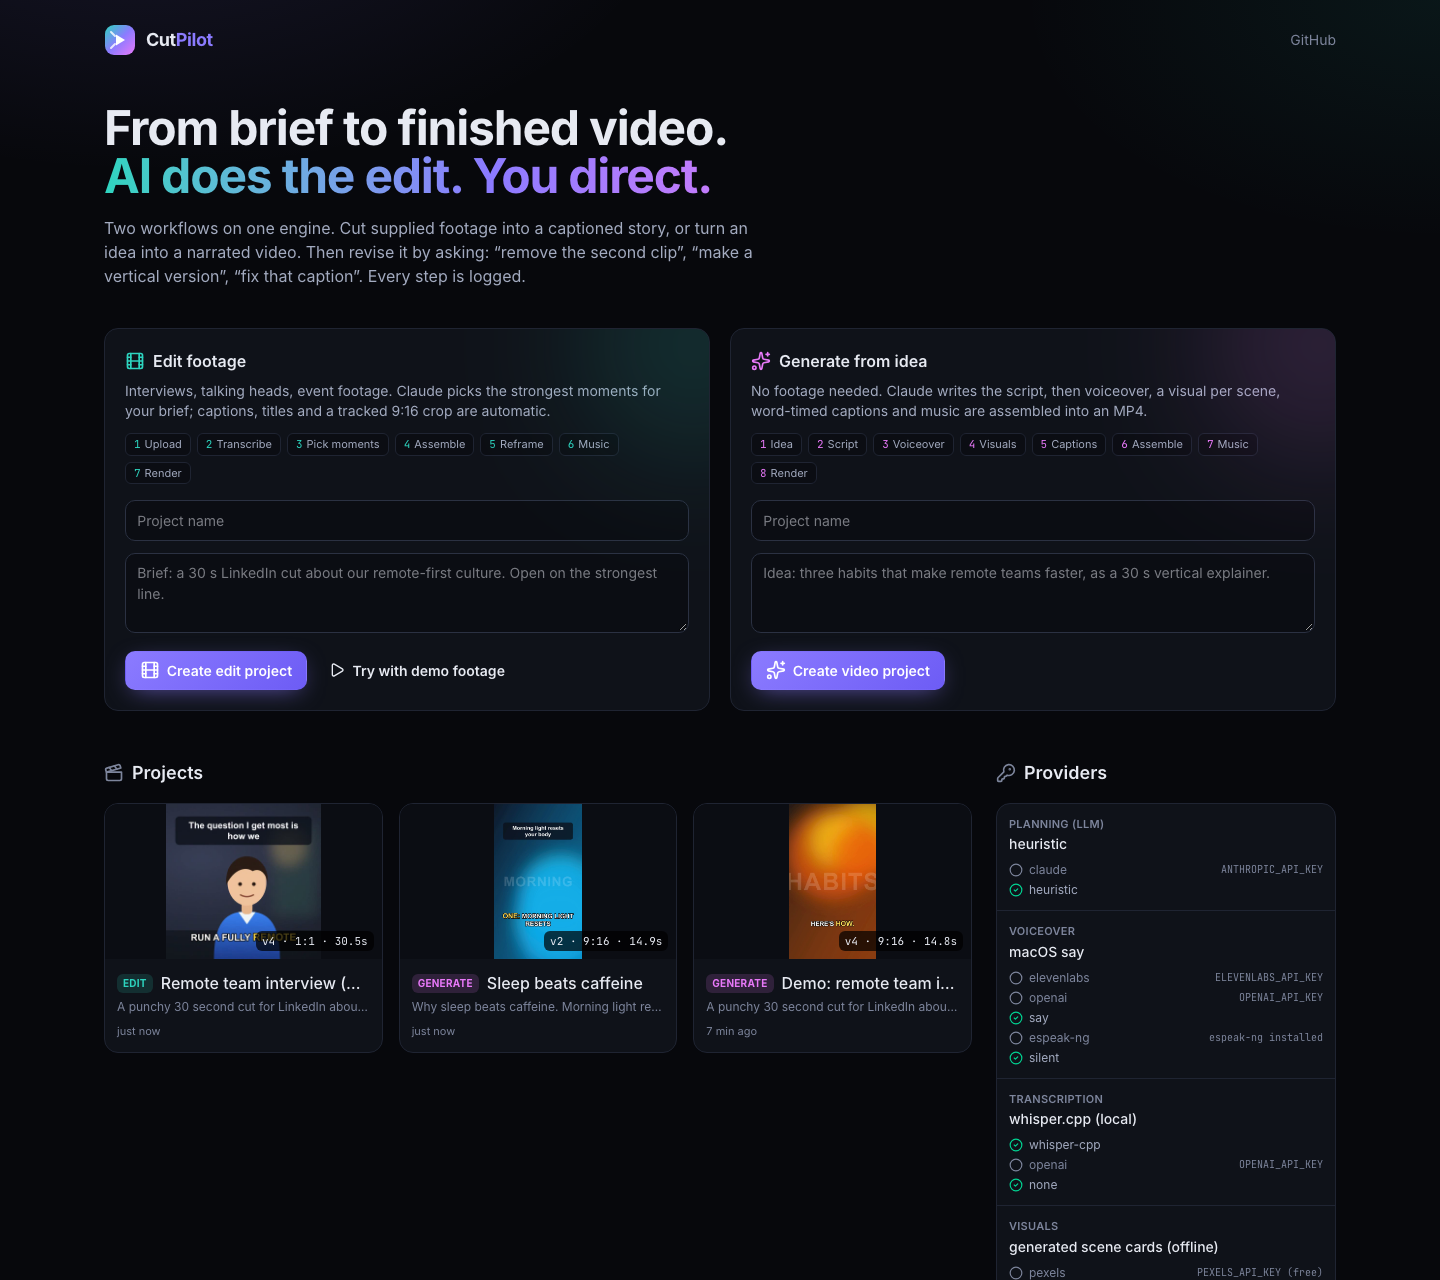
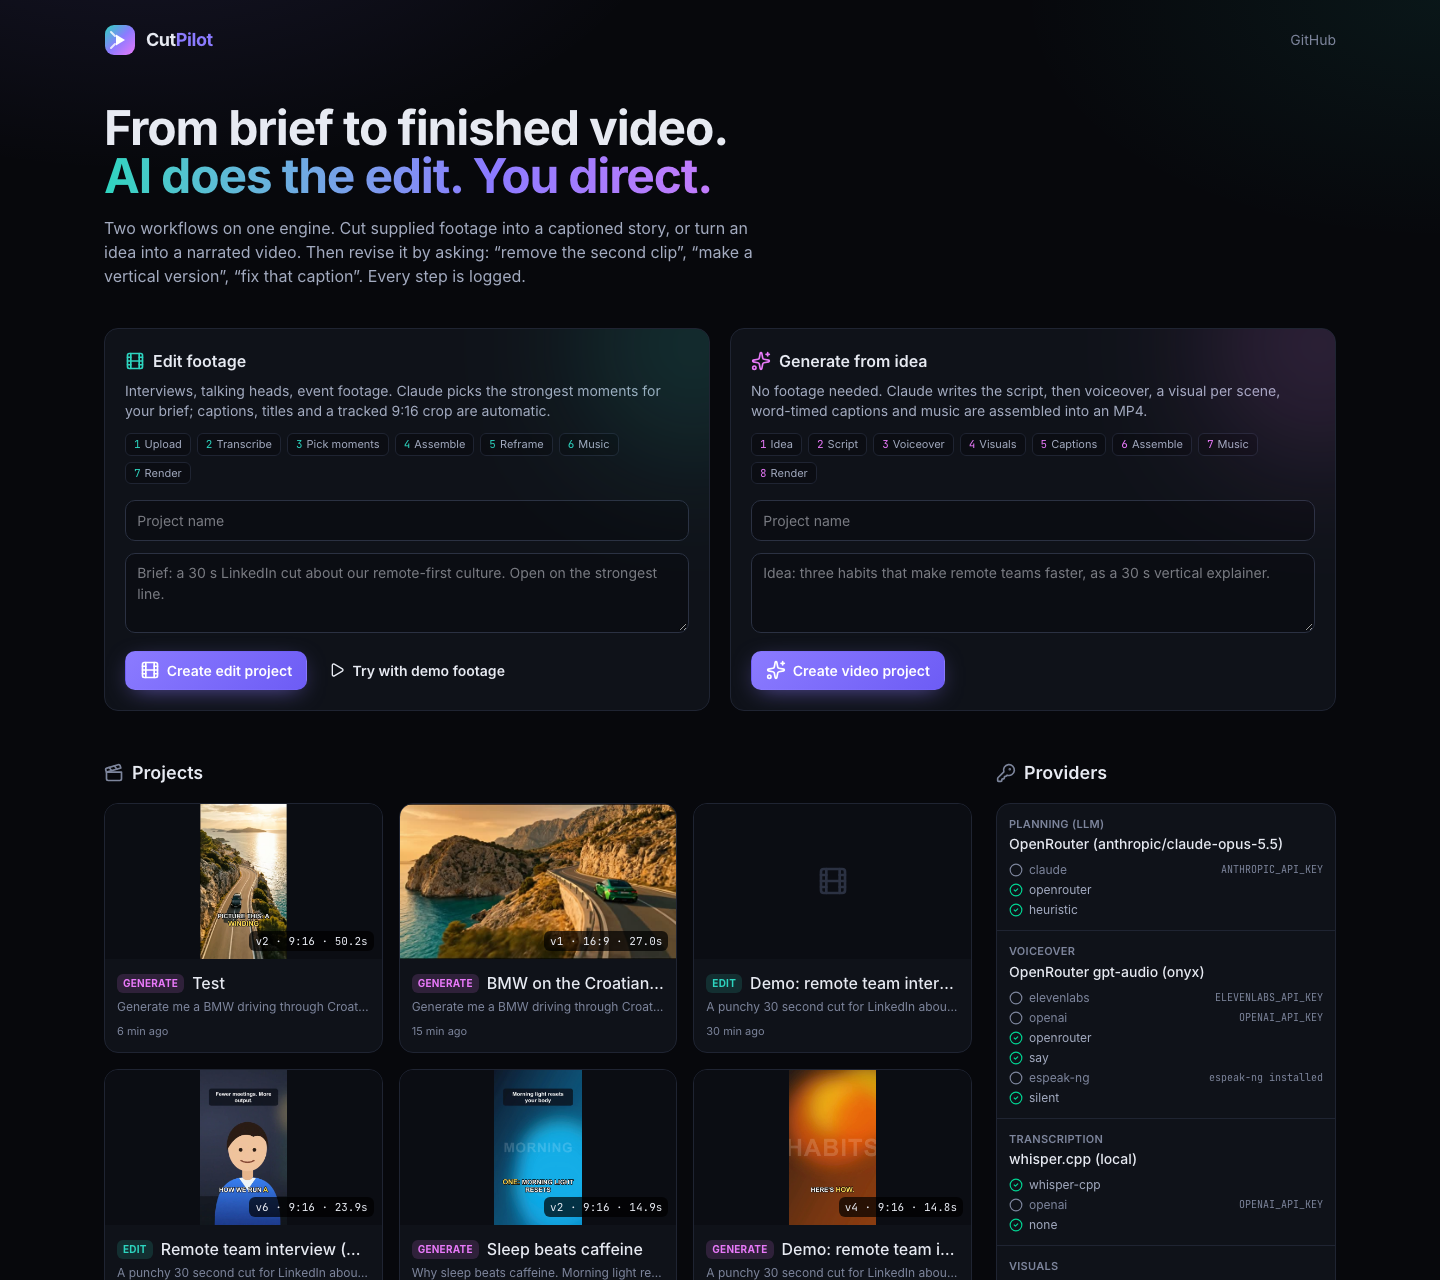
README showcase: cinematic AI film, narrated vertical cut, live run
Add the generated BMW-on-the-Croatian-coast film (GIF, six-shot frame
grid), the narrated 9:16 version, a live-run screenshot and screenshots of
the shot list, AI shots, editor and cost log. Video tiles in the Visuals
step now show a poster frame. Add scripts/make-showcase.sh.

diff --git a/apps/web/components/Inspector.tsx b/apps/web/components/Inspector.tsx
@@ -432,7 +432,17 @@ function Output({ type, output, state }: { type: string; output: any; state: Pro
         <div className="grid grid-cols-2 gap-2">
           {output.scenes.map((s: any, i: number) =>
             s.kind === "video" ? (
-              <video key={i} src={s.pathUrl} muted loop autoPlay playsInline className="aspect-video w-full rounded-lg bg-black object-cover" />
+              <video
+                key={i}
+                src={s.pathUrl}
+                poster={thumbUrl(s.path, Math.min(1.5, (s.duration ?? 2) / 2))}
+                muted
+                loop
+                autoPlay
+                playsInline
+                title={s.credit}
+                className="aspect-video w-full rounded-lg bg-black object-cover"
+              />
             ) : (
               // eslint-disable-next-line @next/next/no-img-element
               <img key={i} src={s.pathUrl} alt={`Scene ${i + 1}`} className="aspect-video w-full rounded-lg bg-black object-cover" />

diff --git a/README.md b/README.md
@@ -2,9 +2,9 @@
 
 # CutPilot
 
-**An AI video workflow that produces real MP4s.** Cut supplied footage into a captioned story from a brief, or turn an idea into a narrated video. Then revise it by asking: *"remove the second clip"*, *"make a vertical version"*, *"fix that caption"*.
+**An AI video workflow that produces real MP4s.** Turn one sentence into a photoreal, cinematic film, or cut supplied footage into a captioned story from a brief. Then revise it by asking: *"remove the second clip"*, *"make a vertical version"*, *"fix that caption"*.
 
-Claude plans the edit. FFmpeg renders it. Every step is logged.
+Claude directs. Veo films. Lyria scores. FFmpeg renders. Every step and every cent is logged.
 
 [![CI](https://github.com/sibrahimpa1/cutpilot/actions/workflows/ci.yml/badge.svg)](https://github.com/sibrahimpa1/cutpilot/actions/workflows/ci.yml)
 ![TypeScript](https://img.shields.io/badge/TypeScript-5-3178c6)
@@ -12,9 +12,9 @@ Claude plans the edit. FFmpeg renders it. Every step is logged.
 ![FFmpeg](https://img.shields.io/badge/FFmpeg-render-007808)
 ![License: MIT](https://img.shields.io/badge/license-MIT-green)
 
-<img src="docs/demo.gif" alt="Videos rendered by CutPilot: a 9:16 edit of an interview with subject tracking and animated captions, and a narrated video generated from an idea" width="720">
+<img src="docs/showcase/cinematic.gif" alt="A green sports coupe driving the Croatian coast road at golden hour, past Dubrovnik's walls, generated by CutPilot from one sentence" width="760">
 
-<sub>Both clips above were rendered by CutPilot with no API keys: local Whisper, macOS voice, generated art and music.</sub>
+<sub>Generated end to end from one prompt: <i>"Generate me a BMW driving through Croatia near the sea view, make it look cinematic and real, powerful and magical. But completely realistic."</i><br>6 AI video shots with native sound, an AI score and crossfades. 27 s, 1080p, $3.85 of API calls, about 4 minutes.</sub>
 
 </div>
 
@@ -28,10 +28,8 @@ Two workflows run on one engine. Switch between them at any time inside the same
 | --- | --- | --- |
 | Input | Interviews, talking heads, event footage, and a brief | One paragraph of idea, a length and a format |
 | AI work | Transcribes, **picks the strongest moments for the brief**, writes the hook | **Writes the script**: narration, visuals and on-screen text per scene |
-| Media | Subject-tracked reframing to 9:16 / 1:1, title card, animated captions, music bed | Voiceover, one visual per scene (stock, generated or offline art), word-timed captions, music |
+| Media | Subject-tracked reframing to 9:16 / 1:1, title card, animated captions, music | **Photoreal AI video per shot with native sound** (same subject in every shot), or stock / AI stills / offline art; optional natural voice-over, word-timed captions, AI-composed music, crossfades |
 | Output | H.264 MP4, any of 16:9, 9:16, 1:1 | H.264 MP4, any of 16:9, 9:16, 1:1 |
-
-**Example (Generate, with an OpenRouter key):** *"Generate me a BMW driving through Croatia near the sea view, make it look cinematic and real, powerful and magical."* Claude decides it needs no narrator, writes a six-shot list with one precise subject (make, model, colour) and a shared look, a hero frame is generated, every shot's first frame is generated from it (same car every time), Veo animates each shot with its own engine and wave sound, Lyria scores it, and the shots are joined with crossfades.
 
 Then, for either mode:
 
@@ -41,13 +39,48 @@ Then, for either mode:
 - **Production log.** Every tool, AI decision and manual action is recorded with timings, and exports as Markdown delivery notes.
 - **MCP server.** Claude Desktop can run the whole workflow through conversation: import footage, run, revise, read the log.
 
-## Screenshots
+## Showcase
 
-| Workflow canvas (Edit footage) | Editor with chat revisions |
+### One sentence → a cinematic film
+
+Claude read the prompt and decided it needs **no narrator**. It wrote a six-shot list with one exact subject (a BMW M4 Competition in Isle of Man Green), a shared look (anamorphic, golden hour, teal and amber grade) and a music brief. CutPilot generated a hero frame, then every shot's first frame *from* that hero frame so the car is the same in all six shots, animated each one on Veo 3.1 Fast with its own engine, wind and wave sound, scored it with Lyria and joined the shots with crossfades.
+
+![Six shots from the generated film: coastal drone shot, low tracking shot, front three-quarter on a hairpin, Dubrovnik's old town walls, chase into the sunset, closing drone pull-back](docs/showcase/cinematic-shots.jpg)
+
+### The same idea, narrated, for Reels and TikTok
+
+Set **Narration** to *Voice-over* (or let the AI decide on a story-led prompt) and the same pipeline writes a script, records a natural voice-over (gpt-audio), times every caption word against the recorded voice and cuts to the line.
+
+<table>
+  <tr>
+    <td width="300"><img src="docs/showcase/narrated-9x16.gif" alt="Vertical narrated version with word-by-word captions" width="280"></td>
+    <td><img src="docs/showcase/narrated-shots.jpg" alt="Six vertical frames of the narrated version with captions and titles"></td>
+  </tr>
+</table>
+
+### Watching it work
+
+![A live run: every step done with its provider shown (Claude via OpenRouter, gpt-audio voice, AI video, local whisper.cpp), the final render encoding](docs/screenshots/live-run.png)
+
+| Claude's shot list | Six AI shots, same car in every one |
+| --- | --- |
+| ![Shot list](docs/screenshots/ai-shotlist.png) | ![AI visuals](docs/screenshots/ai-visuals.png) |
+| **Editor: play, revise by chat, change format** | **Production log with the cost of every API call** |
+| ![Editor](docs/screenshots/ai-editor.png) | ![Log](docs/screenshots/ai-log.png) |
+
+<sub>BMW is a trademark of its owner. This is an example output of an AI pipeline; the project is not affiliated with or endorsed by BMW.</sub>
+
+### Works offline too
+
+With no API keys at all, the same pipeline still produces real MP4s: local Whisper, a macOS or espeak voice, generated scene art and a synthesised music bed. Below, an Edit-mode cut of a (synthetic) interview with subject-tracked 9:16 reframing and animated captions, next to an offline Generate run.
+
+<img src="docs/demo.gif" alt="Offline renders: a 9:16 interview edit with subject tracking and captions, and an offline generated video" width="560">
+
+## Screenshots: Edit footage mode
+
+| Workflow canvas: Claude picks the moments | Editor: four versions, chat revisions |
 | --- | --- |
 | ![Edit workflow](docs/screenshots/workflow-edit.png) | ![Editor](docs/screenshots/editor.png) |
-| **Workflow canvas (Generate from idea)** | **Production log** |
-| ![Generate workflow](docs/screenshots/workflow-generate.png) | ![Log](docs/screenshots/log.png) |
 
 ![Home](docs/screenshots/home.png)
 
@@ -89,7 +122,7 @@ Without keys everything runs offline. Add any of these to `.env` and restart; th
 | Key | What it switches on | Offline fallback |
 | --- | --- | --- |
 | `ANTHROPIC_API_KEY` | Claude picks moments, writes scripts, plans free-form revisions (`claude-opus-5-5`, structured outputs) | Transparent heuristics: sentence scoring, a script template, a rule-based revision parser |
-| `OPENROUTER_API_KEY` | **One key for the full AI production**: the Claude planner, **photoreal AI video per shot with native sound** (Veo 3.1 Fast by default), AI first frames that keep the same subject in every shot, a natural voice (gpt-audio) and composed music (Lyria). Every call's cost is written to the production log | as above, plus generated scene art and a synthesised music bed |
+| `OPENROUTER_API_KEY` (recommended) | **One key for the full AI production**: the Claude planner, **photoreal AI video per shot with native sound** (Veo 3.1 Fast by default), AI first frames that keep the same subject in every shot, a natural voice (gpt-audio) and composed music (Lyria). Every call's cost is written to the production log | as above, plus generated scene art and a synthesised music bed |
 | `OPENAI_API_KEY` | gpt-4o-mini-tts voice, whisper-1 transcription, gpt-image-1 scene images | macOS `say` / espeak-ng, whisper.cpp, generated scene art |
 | `ELEVENLABS_API_KEY` | ElevenLabs voice (preferred when set) | as above |
 | `PEXELS_API_KEY` | Stock video or photo per scene (free key) | Generated scene art |
